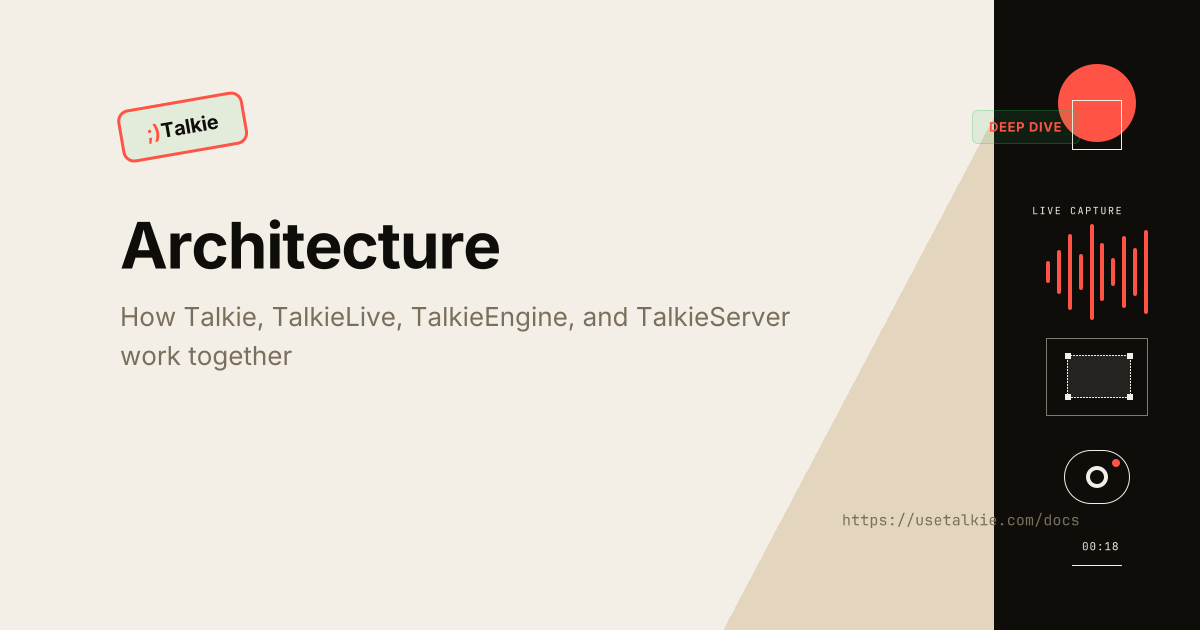
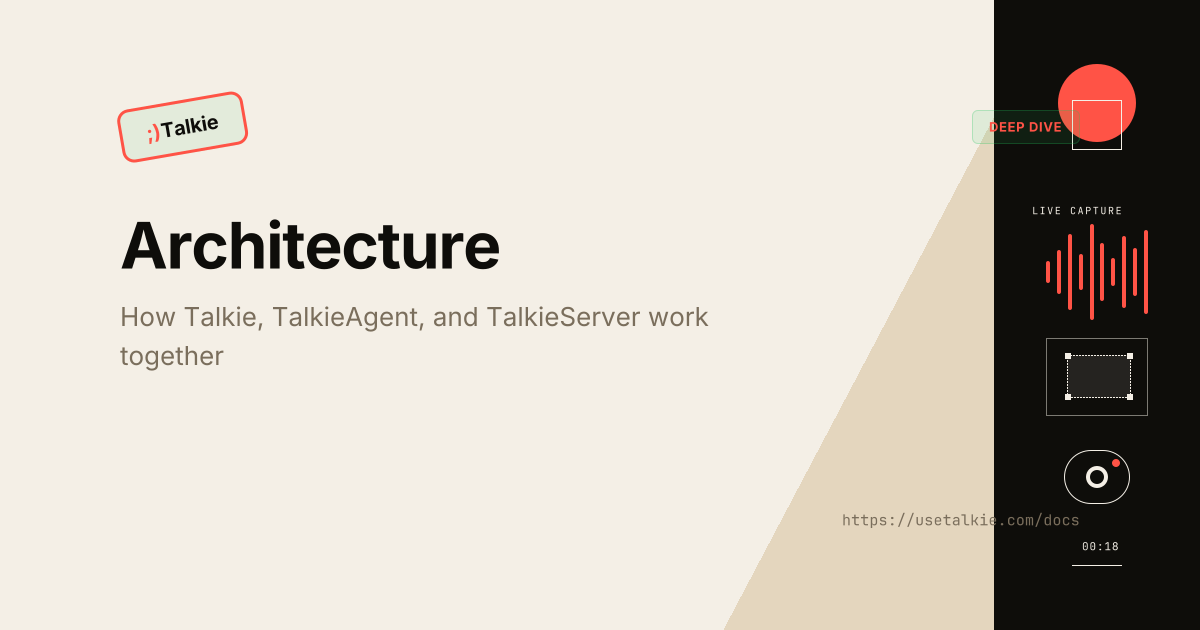
📝 Document ASR and inference models architecture
Add STT engine and LLM catalogs to the architecture reference doc, aligning with the GPT-5.6 family, Claude Fable 5.1, Gemini Flash, and OpenRouter, and streamline the XPC process overview.

Changed region(s): [[0.2775, 0.4825, 0.6475, 0.5429], [0.0925, 0.5429, 0.2467, 0.6032]]

diff --git a/components/docs/ArchitecturePage.jsx b/components/docs/ArchitecturePage.jsx
@@ -1,7 +1,7 @@
 "use client"
 import React from 'react'
 import Link from 'next/link'
-import { ArrowRight, ArrowLeft, Monitor, Mic, Cpu, Server, MessageSquare } from 'lucide-react'
+import { ArrowRight, ArrowLeft, Monitor, Mic, Cpu, Server } from 'lucide-react'
 import DocsLayout from './DocsLayout'
 import ArcDiagram from './ArcDiagram'
 import architectureDiagram from './diagrams/architecture.diagram'
@@ -13,6 +13,9 @@ const sections = [
   { id: 'talkieagent', title: 'TalkieAgent', level: 3 },
   { id: 'talkieserver', title: 'TalkieServer', level: 3 },
   { id: 'engine-runtime', title: 'TalkieEngineCore', level: 3 },
+  { id: 'models', title: 'Models', level: 2 },
+  { id: 'speech-to-text', title: 'Speech-to-text', level: 3 },
+  { id: 'language-models', title: 'Language models', level: 3 },
   { id: 'xpc', title: 'XPC Communication', level: 2 },
   { id: 'lifecycle', title: 'Process Lifecycle', level: 2 },
   { id: 'navigation', title: 'Continue Reading', level: 2 },
@@ -126,24 +129,132 @@ export default function ArchitecturePage() {
         />
       </div>
 
+      <h2 id="models">Models</h2>
+      <p>
+        Talkie keeps two catalogs. Speech-to-text engines turn recorded audio into text. Language models rewrite, summarize, and run workflows. They are not interchangeable. The Compose header picker is a language-model picker. Live dictation does not use it.
+      </p>
+
+      <h3 id="speech-to-text">Speech-to-text</h3>
+      <p>
+        Live dictation on Mac uses Parakeet v3 (FluidAudio) inside TalkieAgent. That path is on-device. The hotkey does not offer a model menu.
+      </p>
+      <p>
+        Retranscribe, on a saved recording, offers a short menu. Apple Speech is a capture fallback, not the Mac hotkey engine. The engine can install other Whisper sizes; those sizes are not on the retranscribe menu.
+      </p>
+
+      <div className="my-6 overflow-x-auto not-prose">
+        <table className="w-full text-sm border border-edge rounded-lg overflow-hidden">
+          <thead className="bg-surface dark:bg-panel-bg-alt">
+            <tr>
+              <th className="px-4 py-3 text-left font-medium text-ink">Surface</th>
+              <th className="px-4 py-3 text-left font-medium text-ink">Engine</th>
+              <th className="px-4 py-3 text-left font-medium text-ink">Id</th>
+              <th className="px-4 py-3 text-left font-medium text-ink">Notes</th>
+            </tr>
+          </thead>
+          <tbody className="divide-y divide-edge">
+            <tr className="bg-canvas-alt">
+              <td className="px-4 py-3 text-ink font-medium">Live dictation</td>
+              <td className="px-4 py-3 text-ink-muted whitespace-nowrap">Parakeet v3</td>
+              <td className="px-4 py-3 font-mono text-[13px] text-ink whitespace-nowrap">parakeet:v3</td>
+              <td className="px-4 py-3 text-ink-muted">On-device. Locked for the Mac hotkey path.</td>
+            </tr>
+            <tr className="bg-canvas-alt">
+              <td className="px-4 py-3 text-ink font-medium">Retranscribe</td>
+              <td className="px-4 py-3 text-ink-muted whitespace-nowrap">Parakeet v3</td>
+              <td className="px-4 py-3 font-mono text-[13px] text-ink whitespace-nowrap">parakeet:v3</td>
+              <td className="px-4 py-3 text-ink-muted">25 languages, fast. Default on the menu.</td>
+            </tr>
+            <tr className="bg-canvas-alt">
+              <td className="px-4 py-3 text-ink font-medium">Retranscribe</td>
+              <td className="px-4 py-3 text-ink-muted whitespace-nowrap">Parakeet v2</td>
+              <td className="px-4 py-3 font-mono text-[13px] text-ink whitespace-nowrap">parakeet:v2</td>
+              <td className="px-4 py-3 text-ink-muted">English, most accurate Parakeet.</td>
+            </tr>
+            <tr className="bg-canvas-alt">
+              <td className="px-4 py-3 text-ink font-medium">Retranscribe</td>
+              <td className="px-4 py-3 text-ink-muted whitespace-nowrap">Whisper Small</td>
+              <td className="px-4 py-3 font-mono text-[13px] text-ink whitespace-nowrap">whisper:openai_whisper-small</td>
+              <td className="px-4 py-3 text-ink-muted">On-device WhisperKit. Balanced.</td>
+            </tr>
+            <tr className="bg-canvas-alt">
+              <td className="px-4 py-3 text-ink font-medium">Retranscribe</td>
+              <td className="px-4 py-3 text-ink-muted whitespace-nowrap">Whisper Large V3</td>
+              <td className="px-4 py-3 font-mono text-[13px] text-ink whitespace-nowrap">whisper:distil-whisper_distil-large-v3</td>
+              <td className="px-4 py-3 text-ink-muted">On-device. Best quality on the menu.</td>
+            </tr>
+            <tr className="bg-canvas-alt">
+              <td className="px-4 py-3 text-ink font-medium">iPhone fallback</td>
+              <td className="px-4 py-3 text-ink-muted whitespace-nowrap">Apple Speech</td>
+              <td className="px-4 py-3 font-mono text-[13px] text-ink whitespace-nowrap">apple_speech</td>
+              <td className="px-4 py-3 text-ink-muted">Used when Parakeet is not ready. Not the Mac hotkey engine.</td>
+            </tr>
+          </tbody>
+        </table>
+      </div>
+
+      <p>
+        Whisper Tiny and Base remain installable in the engine inventory. They are not on the retranscribe menu. Parakeet 110M and Parakeet JA are also installable; they are not on that menu either.
+      </p>
+
+      <h3 id="language-models">Language models</h3>
+      <p>
+        Compose, workflows, and other rewrite actions read the catalog in <code>LLMConfig.json</code>, plus Apple Intelligence when Foundation Models is available on the Mac. Cloud providers need an API key in Settings. The Compose header currently opens a nested macOS menu of these models, grouped by provider.
+      </p>
+
+      <div className="my-6 overflow-x-auto not-prose">
+        <table className="w-full text-sm border border-edge rounded-lg overflow-hidden">
+          <thead className="bg-surface dark:bg-panel-bg-alt">
+            <tr>
+              <th className="px-4 py-3 text-left font-medium text-ink">Provider</th>
+              <th className="px-4 py-3 text-left font-medium text-ink">Recommended models</th>
+              <th className="px-4 py-3 text-left font-medium text-ink">Default</th>
+            </tr>
+          </thead>
+          <tbody className="divide-y divide-edge">
+            <tr className="bg-canvas-alt">
+              <td className="px-4 py-3 text-ink font-medium">Apple Intelligence</td>
+              <td className="px-4 py-3 text-ink-muted">Apple Intelligence (On-Device)</td>
+              <td className="px-4 py-3 text-ink-muted">When Foundation Models is available</td>
+            </tr>
+            <tr className="bg-canvas-alt">
+              <td className="px-4 py-3 text-ink font-medium">OpenAI</td>
+              <td className="px-4 py-3 text-ink-muted">GPT-5.6 Sol, GPT-5.6 Terra, GPT-5.6 Luna</td>
+              <td className="px-4 py-3 text-ink-muted">GPT-5.6 Sol</td>
+            </tr>
+            <tr className="bg-canvas-alt">
+              <td className="px-4 py-3 text-ink font-medium">Anthropic</td>
+              <td className="px-4 py-3 text-ink-muted">Claude Sonnet 5, Claude Opus 5, Claude Fable 5.1, Claude Haiku 4.5</td>
+              <td className="px-4 py-3 text-ink-muted">Claude Sonnet 5</td>
+            </tr>
+            <tr className="bg-canvas-alt">
+              <td className="px-4 py-3 text-ink font-medium">Google Gemini</td>
+              <td className="px-4 py-3 text-ink-muted">Gemini 2.5 Flash, Gemini 2.5 Flash Lite, Gemini 2.5 Pro</td>
+              <td className="px-4 py-3 text-ink-muted">Gemini 2.5 Flash</td>
+            </tr>
+            <tr className="bg-canvas-alt">
+              <td className="px-4 py-3 text-ink font-medium">Groq</td>
+              <td className="px-4 py-3 text-ink-muted">Llama 3.3 70B, Llama 3.1 8B Instant</td>
+              <td className="px-4 py-3 text-ink-muted">Llama 3.1 8B Instant</td>
+            </tr>
+            <tr className="bg-canvas-alt">
+              <td className="px-4 py-3 text-ink font-medium">OpenRouter</td>
+              <td className="px-4 py-3 text-ink-muted">Dynamic model discovery (OpenAI, Anthropic, Gemini, DeepSeek, etc.)</td>
+              <td className="px-4 py-3 text-ink-muted">Configurable</td>
+            </tr>
+          </tbody>
+        </table>
+      </div>
+
+      <p>
+        Talkie also supports OpenRouter dynamic fetching and custom AI gateways for agents, as well as borrowing models through TalkieServer when the iPhone bridge is active.
+      </p>
+
       {/* XPC Communication */}
       <h2 id="xpc">XPC Communication</h2>
       <p>
         XPC is Apple's process-to-process channel. Talkie uses it to talk to TalkieAgent (capture, dictation, bridge control) and TalkieSync (CloudKit memos). Transcription stays inside TalkieAgent.
       </p>
-
-      <div className="p-4 rounded-lg border border-edge bg-canvas-alt my-4 not-prose">
-        <div className="flex items-center gap-3 mb-3">
-          <MessageSquare className="w-5 h-5 text-blue-500" />
-          <span className="font-bold text-ink">Why XPC?</span>
-        </div>
-        <ul className="text-sm text-ink-muted space-y-1">
-          <li>• <strong>Security</strong> — Each process runs with only the permissions it needs</li>
-          <li>• <strong>Crash isolation</strong> — An Agent crash does not take down the main app</li>
-          <li>• <strong>Lifecycle</strong> — launchd starts and restarts TalkieAgent independently of the UI</li>
-          <li>• <strong>Type safety</strong> — Protocol-based messages with compile-time checks</li>
-        </ul>
-      </div>
 
       <p>
         When you start a dictation, TalkieAgent captures audio, transcribes it in-process with TalkieEngineCore, and inserts the text. The main app never needs microphone or accessibility permission for that path. Talkie hears about the new dictation over XPC (with a polling fallback if the connection drops).
